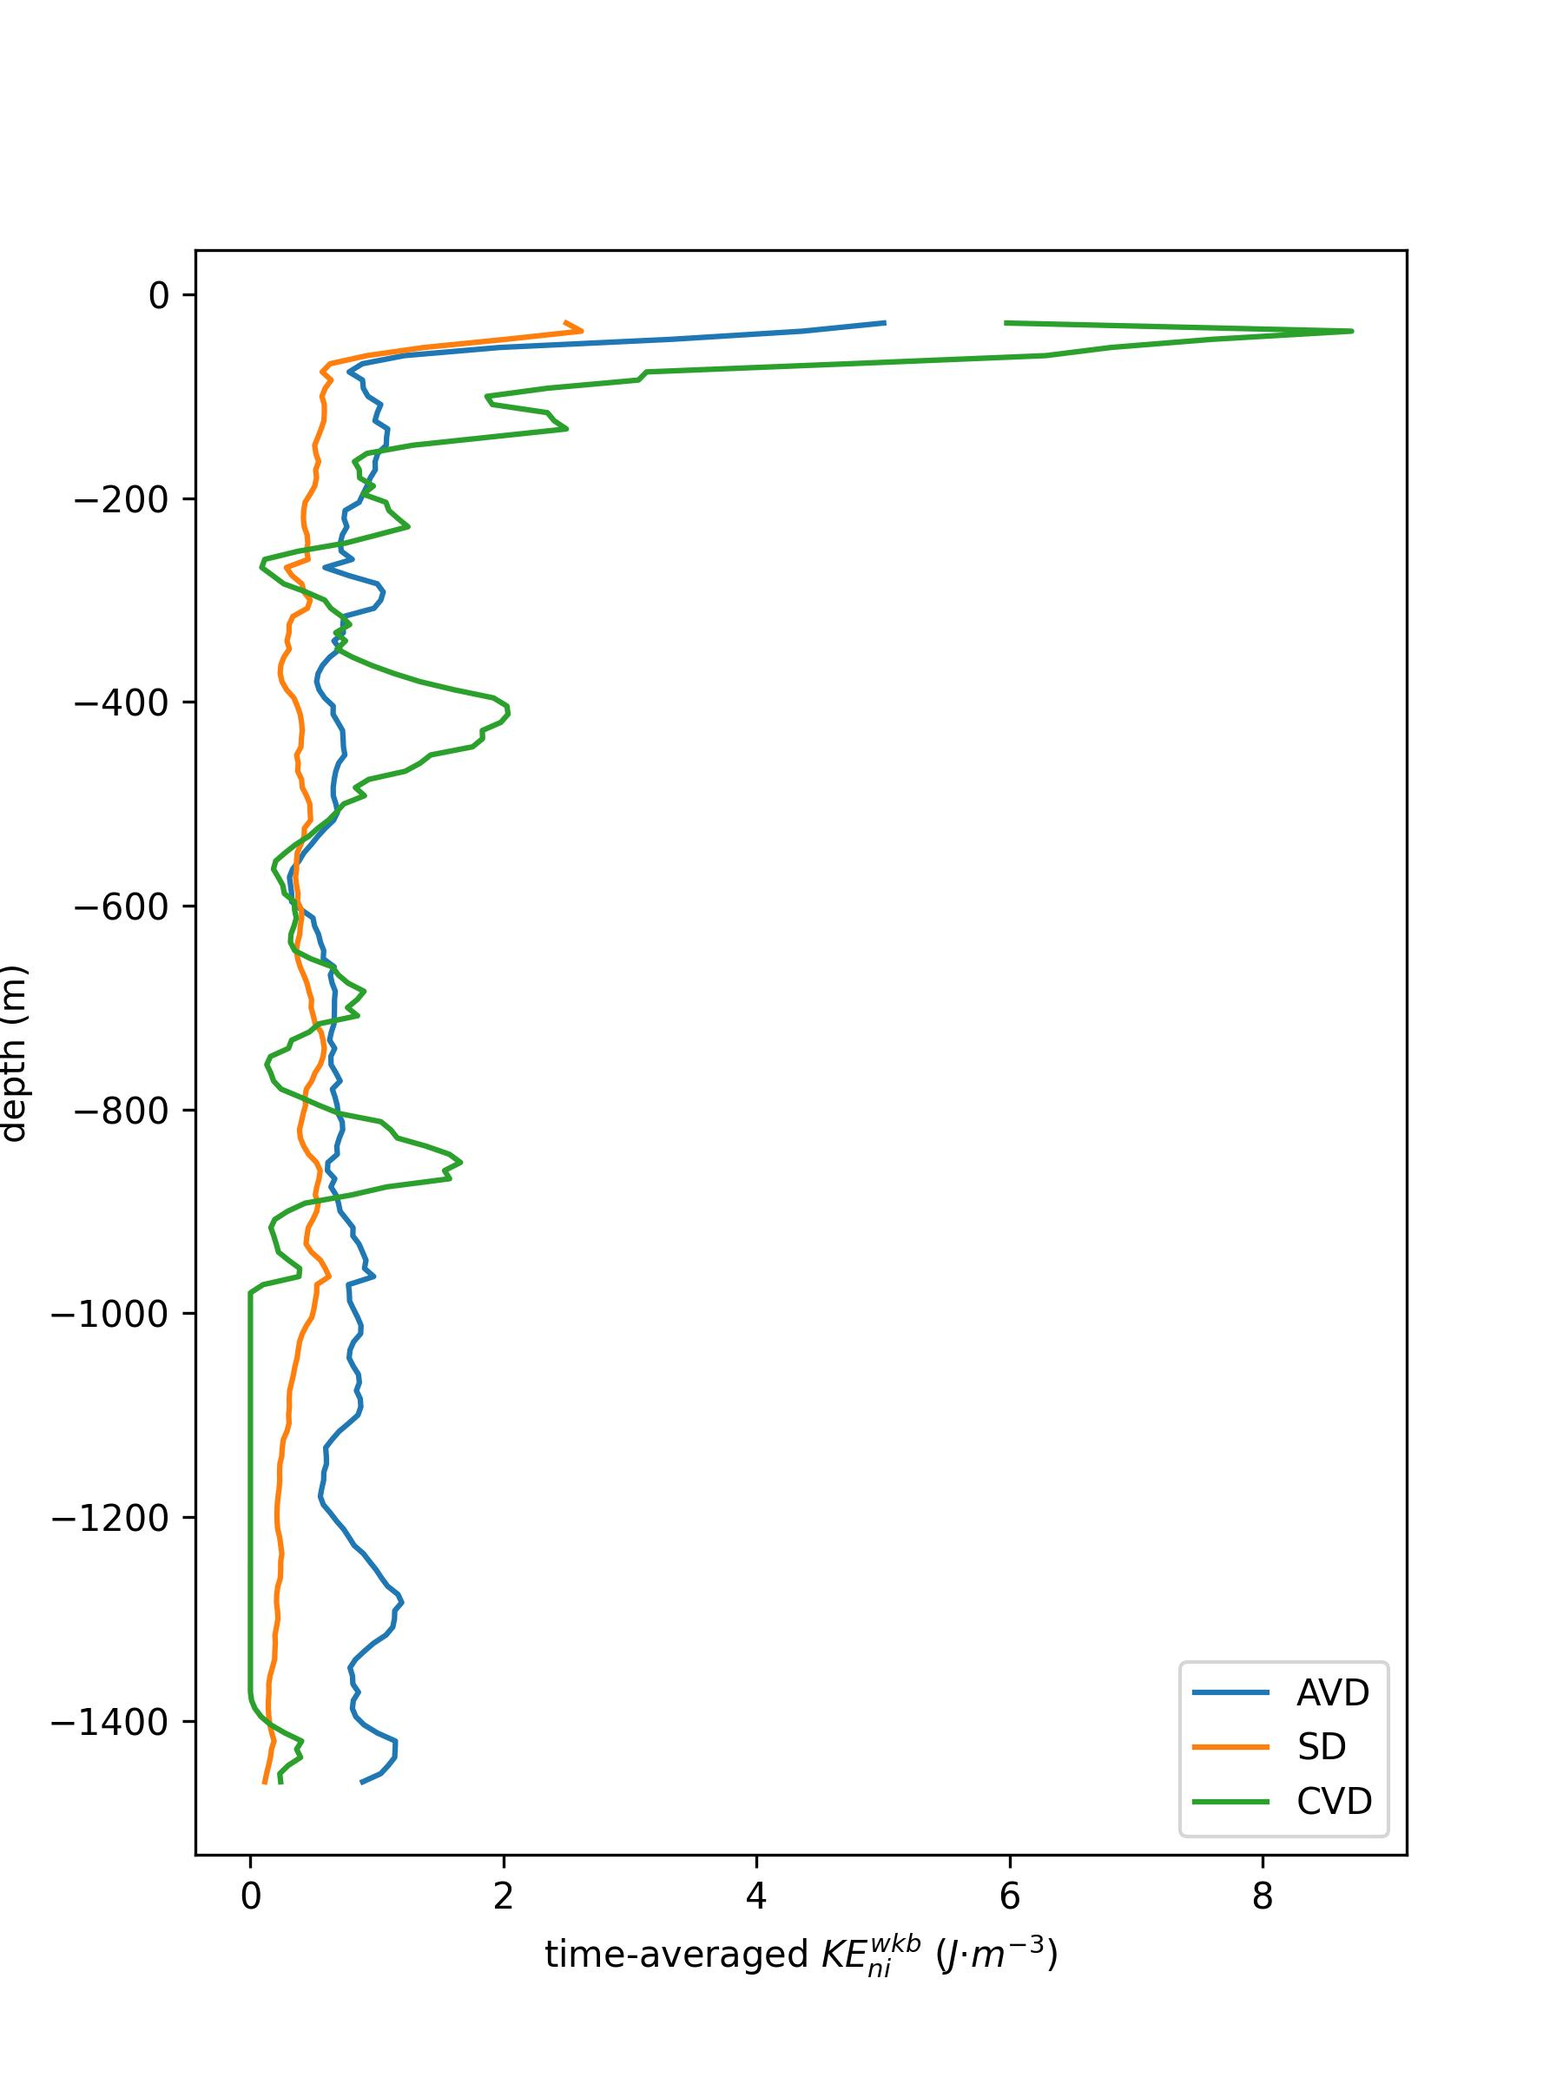
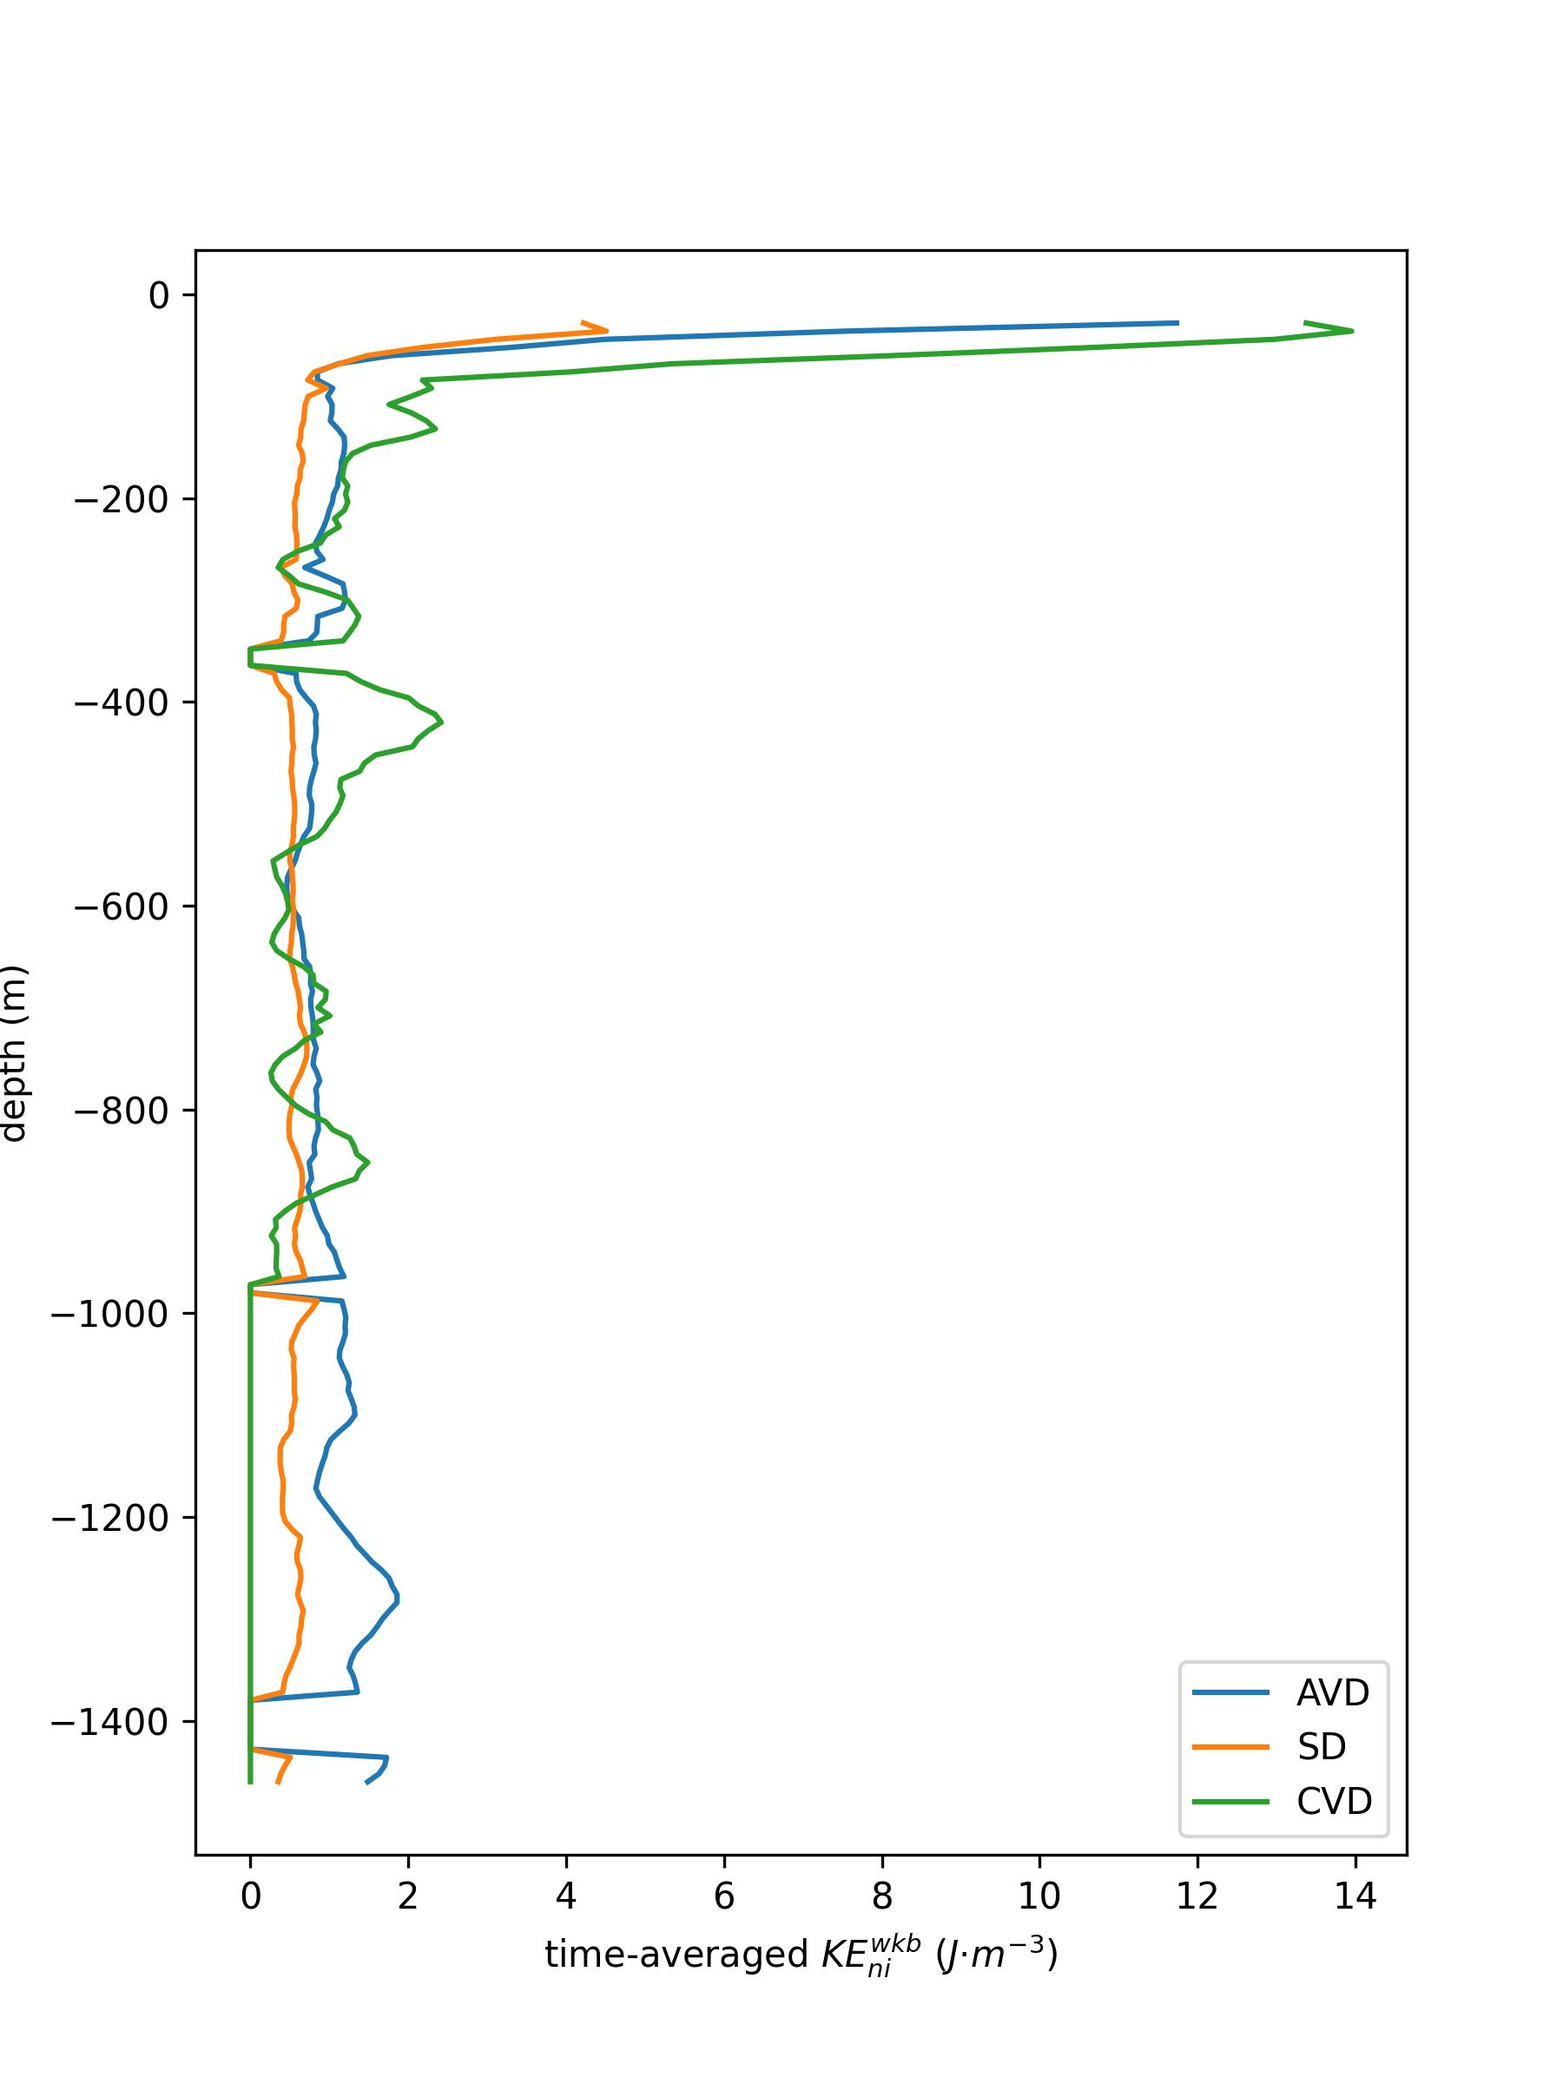
complete figures plotting

Changed region(s): [[0.1556, 0.1562, 0.7156, 0.6875], [0.1556, 0.6562, 0.28, 0.875], [0.7467, 0.1562, 0.84, 0.1875]]

diff --git a/Cal_5_modesProject.py b/Cal_5_modesProject.py
@@ -1,6 +1,7 @@
 import matplotlib.pyplot as plt
 import numpy as np
 from func_1_dynmodes import dynmodes
+from sklearn.linear_model import Ridge
 
 
 maxIdx = 181
@@ -35,22 +36,41 @@ fluxParams = np.load(r'MoorData/EnergyFlux.npz')
 up = fluxParams['up']
 vp = fluxParams['vp']
 pp = fluxParams['pp']
+
 depthFlux = depth[9:]
 nzFlux = len(depthFlux)
 pmodesFlux = pmodes[:, :, 9:maxIdx]
+# plt.pcolormesh(range(6650), depthFlux, pp.T, vmin=-100, vmax=100, cmap='seismic')
+# plt.colorbar()
+# plt.show()
 
-up_mod = np.zeros((nt, nmodes, nzFlux))
-vp_mod = np.zeros((nt, nmodes, nzFlux))
-pp_mod = np.zeros((nt, nmodes, nzFlux))
+up_mod = np.zeros((nt, nmodes, nzFlux)) * np.nan
+vp_mod = np.zeros((nt, nmodes, nzFlux)) * np.nan
+pp_mod = np.zeros((nt, nmodes, nzFlux)) * np.nan
 
 for t in range(nt):
     valid_indices = np.where(~np.isnan(up[t, :]))[0]
-    up_mod_coeff = np.linalg.lstsq(pmodes[t, :, valid_indices], up[t, valid_indices], rcond=None)[0]
-    up_mod[t, :, valid_indices] = up_mod_coeff * pmodes[t, :, valid_indices]
-    vp_mod_coeff = np.linalg.lstsq(pmodes[t, :, valid_indices], vp[t, valid_indices], rcond=None)[0]
-    vp_mod[t, :, valid_indices] = vp_mod_coeff * pmodes[t, :, valid_indices]
-    pp_mod_coeff = np.linalg.lstsq(pmodes[t, :, valid_indices], pp[t, valid_indices], rcond=None)[0]
-    pp_mod[t, :, valid_indices] = pp_mod_coeff * pmodes[t, :, valid_indices]
+    up_mod_coeff = np.linalg.lstsq(pmodesFlux[t, :, valid_indices], up[t, valid_indices], rcond=None)[0]
+    up_mod[t, :, valid_indices] = up_mod_coeff * pmodesFlux[t, :, valid_indices]
+    vp_mod_coeff = np.linalg.lstsq(pmodesFlux[t, :, valid_indices], vp[t, valid_indices], rcond=None)[0]
+    vp_mod[t, :, valid_indices] = vp_mod_coeff * pmodesFlux[t, :, valid_indices]
+    pp_mod_coeff = np.linalg.lstsq(pmodesFlux[t, :, valid_indices], pp[t, valid_indices], rcond=None)[0]
+    pp_mod[t, :, valid_indices] = pp_mod_coeff * pmodesFlux[t, :, valid_indices]
+    print('c')
+
+
+# for t in range(nt):
+#     valid_indices = np.where(~np.isnan(up[t, :]))[0]
+#     ridge = Ridge(alpha=0.1)
+#     ridge.fit(pmodesFlux[t, :, valid_indices], up[t, valid_indices])
+#     up_mod_coeff = ridge.coef_
+#     up_mod[t, :, valid_indices] = up_mod_coeff * pmodesFlux[t, :, valid_indices]
+#     ridge.fit(pmodesFlux[t, :, valid_indices], vp[t, valid_indices])
+#     vp_mod_coeff = ridge.coef_
+#     vp_mod[t, :, valid_indices] = vp_mod_coeff * pmodesFlux[t, :, valid_indices]
+#     ridge.fit(pmodesFlux[t, :, valid_indices], pp[t, valid_indices])
+#     pp_mod_coeff = ridge.coef_
+#     pp_mod[t, :, valid_indices] = pp_mod_coeff * pmodesFlux[t, :, valid_indices]
 
 np.savez(r'MoorData/EnergyFlux_10bcmodes.npz', up_mod=up_mod, vp_mod=vp_mod, pp_mod=pp_mod)
 print('c')

diff --git a/Plot_3_windWork.py b/Plot_3_windWork.py
@@ -1,0 +1,63 @@
+import numpy as np
+from datetime import datetime, timedelta
+import matplotlib.pyplot as plt
+import matplotlib.gridspec as gridspec
+from matplotlib.dates import DateFormatter
+
+
+data1 = np.load(r'ReanaData/ERA5_tao_ni.npz')
+tao_x_ni = data1['tao_x_ni']
+tao_y_ni = data1['tao_y_ni']
+tao = np.sqrt(tao_x_ni ** 2 + tao_y_ni ** 2)
+data2 = np.load(r'ReanaData/ERA5_windWork.npz')
+pi_obs = data2['windWork_ni_obs']
+pi_slab = data2['windWork_ni_slab']
+data3 = np.load(r'ReanaData/ERA5_windWork_cum.npz')
+pi_obs_cum = data3['windWork_ni_obs_cum']
+pi_slab_cum = data3['windWork_ni_slab_cum']
+data4 = np.load(r'MoorData/ADCP_uv_ni_wkb.npz')
+ke_ni_wkb = data4['KE_ni_wkb']
+data5 = np.load(r'MoorData/ADCP_uv.npz')
+time = data5['mtime_adcp']
+depth = data5['depth_adcp']
+date = [datetime(1, 1, 1) + timedelta(days=i - 367) for i in time]
+
+fig = plt.figure(figsize=(10, 10))
+gs = gridspec.GridSpec(4, 2, width_ratios=[40, 1], height_ratios=[1, 1, 1, 1], hspace=0.3, wspace=0.01)
+
+# 第一子图
+ax1 = fig.add_subplot(gs[0, 0])
+ax1.plot(date, tao, 'k-', label='ECMWF')
+ax1.legend(loc='upper left')
+ax1.set_ylabel(r'$\tau_{NI} (N/m^{2})$')
+ax1.set_xticks(date[::30*24])
+ax1.xaxis.set_major_formatter(DateFormatter('%b'))
+
+# 第二子图
+ax2 = fig.add_subplot(gs[1, 0], sharex=ax1)
+ax2.plot(date, pi_obs, 'r-', label='Mooring')
+ax2.plot(date, pi_slab, 'k-', label='Slab Model')
+ax2.legend(loc='upper left')
+ax2.set_ylabel(r'$\Pi_{NI}$ $(W/m^{2})$')
+
+# 第三子图
+ax3 = fig.add_subplot(gs[2, 0], sharex=ax1)
+ax3.plot(date, pi_obs_cum, 'r-', label='Mooring')
+ax3.plot(date, pi_slab_cum, 'k-', label='Slab Model')
+ax3.legend(loc='upper left')
+ax3.set_ylabel(r'$\int \Pi_{NI} dt$ $(W/m^{2})$')
+
+# 第四子图
+ax4 = fig.add_subplot(gs[3, 0], sharex=ax1)
+pcm = ax4.pcolormesh(date, depth, ke_ni_wkb.T, cmap='Oranges', vmin=0, vmax=10, shading='auto')
+ax4.set_ylabel('Depth (m)')
+ax4.set_xlabel('2015 - 2016')
+
+# Colorbar 放在右下角专门区域
+cax = fig.add_subplot(gs[3, 1])
+cbar = fig.colorbar(pcm, cax=cax)
+cbar.set_label(r'$KE_{NI}^{WKB}$ $(J/m^{3})$')
+
+# plt.savefig(r'figures/fig_3_WindWork.jpg', dpi=300, bbox_inches='tight')
+plt.show()
+

diff --git a/Plot_8_2_PDF_horizontalEnergyFlux_modes.py b/Plot_8_2_PDF_horizontalEnergyFlux_modes.py
@@ -7,7 +7,9 @@ from matplotlib.colors import LogNorm
 uvp_mod = np.load(r'MoorData/EnergyFlux_10bcmodes.npz')
 up_mod = uvp_mod['up_mod']
 vp_mod = uvp_mod['vp_mod']
-pp_mod = uvp_mod['pp_mod']
+# pp_mod = uvp_mod['pp_mod']
+pp = np.load(r'MoorData/EnergyFlux.npz')['pp']
+pp_mod = pp.reshape(-1, 1, 172)
 fx_mod = pp_mod * up_mod
 fy_mod = pp_mod * vp_mod
 nt, nmodes, nz = np.shape(up_mod)
@@ -18,28 +20,27 @@ dt = 3600
 plt.figure(figsize=(12, 12))
 for i in range(1, 5):
     plt.subplot(2, 2, i)
-    print(i)
-    fx = np.nansum(fx_mod[:, i, :], 1) * dz
-    fy = np.nansum(fy_mod[:, i, :], 1) * dz
+    fx = fx_mod[:, i, :].flatten()
+    fy = fy_mod[:, i, :].flatten()
     fx = fx[~np.isnan(fx)]
     fy = fy[~np.isnan(fy)]
     # transfer to angle and magnitude
     theta = np.arctan2(fy, fx)
     magnitude = np.sqrt(fx**2 + fy**2)
     # ---------- plot PDF ----------
-    hist, x_edges, y_edges = np.histogram2d(fx, fy, bins=(36, 36))
+    hist, x_edges, y_edges = np.histogram2d(fx, fy, bins=(25, 25))
     hist_density = hist / np.sum(hist)
     x_mesh, y_mesh = np.meshgrid(x_edges, y_edges)
     c = plt.pcolormesh(x_mesh, y_mesh, hist_density.T, cmap='Reds', norm=LogNorm())
     cb = plt.colorbar(c)
     cb.ax.set_title('PDF')
-    plt.plot([-1e3, 1e3], [0, 0], 'k')
-    plt.plot([0, 0], [-1e3, 1e3], 'k')
-    plt.xlabel('$F_{x}$ ($W·m^{-1}$)')
-    plt.ylabel('$F_{y}$ ($W·m^{-1}$)')
-    # plt.xlim([-1e3, 1e3])
-    # plt.ylim([-1e3, 1e3])
+    plt.plot([-1.5e3, 1.5e3], [0, 0], 'k')
+    plt.plot([0, 0], [-1.5e3, 1.5e3], 'k')
+    plt.xlabel('$F_{x}$ ($W/m$)')
+    plt.ylabel('$F_{y}$ ($W/m$)')
+    plt.xlim([-1.5e3, 1.5e3])
+    plt.ylim([-1.5e3, 1.5e3])
     plt.title('mode{}'.format(i))
-# plt.savefig(r'figures\PDF of Modes Horizontal Energy Flux.jpg', dpi=300)
+plt.savefig(r'figures\fig_8_2_EnergyFluxModesPDF.jpg', dpi=300, bbox_inches='tight')
 plt.show()
 print('c')

diff --git a/Plot_7_ModeContributions.py b/Plot_7_ModeContributions.py
@@ -1,0 +1,52 @@
+import numpy as np
+import matplotlib.pyplot as plt
+from scipy import stats
+
+
+def cal_confidence(data):
+    n = len(data)
+    std = np.nanstd(data, ddof=1)
+    se = std / np.sqrt(n)
+    confidence = 0.99
+    alpha = 1 - confidence
+    t_value = stats.t.ppf(1 - alpha / 2, df=n - 1)
+    margin = t_value * se
+    return margin
+
+
+data1 = np.load(r'MoorData/ADCP_uv_ni_10bcmodes.npz')
+ke_mod = data1['ke_mod']
+ke_mod_data = np.nanmean(np.nanmean(ke_mod, -1), 0)
+data2 = np.load(r'MoorData/EnergyFlux_10bcmodes.npz')
+up_mod = data2['up_mod']
+vp_mod = data2['vp_mod']
+pp = np.load(r'MoorData/EnergyFlux.npz')['pp']
+pp_mod = pp.reshape(6650, 1, -1)
+fx_mod = pp_mod * up_mod
+fy_mod = pp_mod * vp_mod
+f_mod = np.sqrt(fx_mod ** 2 + fy_mod ** 2)
+f_mod_data = np.nanmean(np.nansum(f_mod, -1), 0)
+
+ci_ke = np.empty(11)
+for i in range(11):
+    ci_ke[i] = cal_confidence(np.nanmean(ke_mod, -1))
+ci_f = np.empty(11)
+for i in range(11):
+    ci_f[i] = cal_confidence(np.nanmean(f_mod, -1))
+
+plt.figure(1, figsize=(10, 8))
+plt.subplot(2, 1, 1)
+plt.bar(range(11), ke_mod_data, color='#A6B1B7', yerr=ci_ke, capsize=6, error_kw=dict(ecolor='#444444', linewidth=1.5))
+plt.xticks(range(11))
+plt.ylim([0, 1200])
+plt.ylabel('$KE_{NI}^{WKB}$ $J/m^{3}$')
+
+plt.subplot(2, 1, 2)
+plt.bar(range(11), f_mod_data, color='#A6B1B7', yerr=ci_f, capsize=6, error_kw=dict(ecolor='#444444', linewidth=1.5))
+plt.xticks(range(11))
+plt.ylim([0, 1200])
+plt.xlabel('Modes')
+plt.ylabel('$F_{NI}$ $W/m$')
+
+# plt.savefig(r'figures/fig_7_ModeContribution.jpg', dpi=300, bbox_inches='tight')
+plt.show()

diff --git a/Plot_6_VerticalModeStructure.py b/Plot_6_VerticalModeStructure.py
@@ -1,0 +1,46 @@
+import numpy as np
+import matplotlib.pyplot as plt
+import matplotlib.gridspec as gridspec
+import matplotlib.ticker as ticker
+
+
+data1 = np.load(r'ReanaData/WOA23_pmodes_mean.npz')
+pmodes = data1['pmodes']
+Nsq = data1['Nsq']
+ze = data1['ze']
+data2 = np.load(r'MoorData/ADCP_uv.npz')
+depth = data2['depth_adcp']
+
+fig = plt.figure(1, figsize=(10, 12))
+gs = gridspec.GridSpec(2, 6, hspace=0, wspace=0)
+for i in range(11):
+    if i >= 6:
+        j = i + 1
+    else:
+        j = i
+    if i == 0:
+        ax1 = fig.add_subplot(gs[j])
+        ax1.plot(Nsq, ze, 'k-')
+        ax1.set_ylabel('Depth (m)')
+        ax1.set_title(r'$N^{2}$ $(rad/s)^{2}$')
+        ax1.set_yticks([0, -500, -1000, -1500, -2000])
+        ax1.ticklabel_format(style='sci', scilimits=(0, 10e-5), axis='x')
+    else:
+        ax = fig.add_subplot(gs[j])
+        if pmodes[i, 0] < 0:
+            pmodes[i, :] = -pmodes[i, :]
+        ax.plot(pmodes[i, :].T, depth, 'k-')
+        if i == 6:
+            ax.set_ylabel('Depth (m)')
+            ax.set_yticks([-500, -1000, -1500, -2000])
+        else:
+            ax.set_yticks([])
+        ax.set_xlim(-np.nanmax(np.abs(pmodes[i, :])) - 0.1, np.nanmax(np.abs(pmodes[i, :])) + 0.1)
+        ax.set_xticks([])
+        ax.plot([0, 0], [0, -2000], 'k--')
+        ax.text(np.nanmin(pmodes[i, :]), -1800, 'mode {}'.format(i), fontsize=16)
+        ax.set_ylim(-2000, 0)
+
+plt.savefig(r'figures/fig_6_VerticalModeStructure.jpg', dpi=300, bbox_inches='tight')
+
+plt.show()

diff --git a/plot_KEprofileSeparateByVorticity.py b/plot_KEprofileSeparateByVorticity.py
@@ -2,13 +2,12 @@ import numpy as np
 import matplotlib.pyplot as plt
 
 
-temp = np.load(r'ReanaData\WOA23_temp_grid.npy')
 vorticity_moor = np.load(r'ReanaData\AVISO_vorticity1.npy')
-adcp = np.load('ADCP_uv_ni_wkb.npz')
+adcp = np.load('MoorData/ADCP_uv_ni_wkb.npz')
 KE_ni = adcp['KE_ni_wkb']
-adcp0 = np.load('ADCP_uv.npz')
-moorDate = adcp0['mtime']
-depth = adcp0['depth']
+adcp0 = np.load('MoorData/ADCP_uv.npz')
+moorDate = adcp0['mtime_adcp']
+depth = adcp0['depth_adcp']
 lat_moor = 36.23
 fi = 2 * 7.292e-5 * np.sin(lat_moor/180*np.pi)
 vf = vorticity_moor / fi
@@ -32,6 +31,6 @@ plt.plot(negativeVor / timeSpan, depth, 'r-')
 plt.legend([r'$\zeta_{g} > 0$', r'$\zeta_{g} < 0$'])
 plt.ylabel('depth (m)')
 plt.xlabel('time-averaged $KE_{ni}^{wkb}$ ($J/m^{3}$)')
-plt.savefig(r'figures\time-averaged KE separate by vorticity2.jpg', dpi=300)
+plt.savefig(r'figures\fig_9_2_VerticalDistributionOnVorticity.jpg', dpi=300, bbox_inches='tight')
 plt.show()
 print('c')

diff --git a/Cal_windStress.py b/Cal_windStress.py
@@ -39,9 +39,9 @@ windWork_ni_slab = u_slab * tao_x_ni + v_slab * tao_y_ni
 windWork_ni_obs_cum = 3600 * np.nancumsum(windWork_ni_obs) / 1000
 windWork_ni_slab_cum = 3600 * np.nancumsum(windWork_ni_slab) / 1000
 
-np.savez(r'ReanaData/ERA5_tao_ni.npz', tao_x_ni=tao_x_ni, tao_y_ni=tao_y_ni)
-np.savez(r'ReanaData/ERA5_windWork.npz', windWork_ni_obs=windWork_ni_obs, windWork_ni_slab=windWork_ni_slab)
-np.savez(r'ReanaData/ERA5_windWork_cum.npz', windWork_ni_obs_cum=windWork_ni_obs_cum, windWork_ni_slab_cum=windWork_ni_slab_cum)
+# np.savez(r'ReanaData/ERA5_tao_ni.npz', tao_x_ni=tao_x_ni, tao_y_ni=tao_y_ni)
+# np.savez(r'ReanaData/ERA5_windWork.npz', windWork_ni_obs=windWork_ni_obs, windWork_ni_slab=windWork_ni_slab)
+# np.savez(r'ReanaData/ERA5_windWork_cum.npz', windWork_ni_obs_cum=windWork_ni_obs_cum, windWork_ni_slab_cum=windWork_ni_slab_cum)
 
 # for checking
 plt.figure(1)

diff --git a/Plot_8_1_PDF_HorizontalEnergyFlux.py b/Plot_8_1_PDF_HorizontalEnergyFlux.py
@@ -19,9 +19,9 @@ theta_mesh, magnitude_mesh = np.meshgrid(theta_edges, r_edges)
 plt.figure(figsize=(6, 6))
 ax = plt.subplot(111, polar=True)
 c = ax.pcolormesh(theta_mesh, magnitude_mesh, hist_density.T, cmap='Reds', norm=LogNorm(vmin=1e-6, vmax=1e-2))
-ax.set_yticks([50, 100, 150])
-plt.colorbar(c, label='PDF')
+ax.set_yticks([50, 100])
+plt.colorbar(c, label='PDF', orientation='horizontal')
 plt.title('PDF of Horizontal Energy Flux')
-# plt.savefig(r'figures\PDF of Horizontal Energy Flux.jpg', dpi=300)
+plt.savefig(r'figures\fig_8_1_EnergyFluxPDF.jpg', dpi=300, bbox_inches='tight')
 plt.show()
 print('c')

diff --git a/Plot_PDF.py b/Plot_PDF.py
@@ -57,8 +57,7 @@ plt.xlim(-0.1, 0.1)
 plt.xlabel(r'$\zeta_g/f$')
 plt.ylabel(r'$KE_{NI}^{WKB}$ $(J/m^{3})$')
 plt.grid(True)
-plt.tight_layout()
-# plt.savefig(r'figures\PDF_depth_integrated1.jpg', dpi=300)
+plt.savefig(r'figures\fig_9_1_PDF.jpg', dpi=300, bbox_inches='tight')
 plt.show()
 # # ----------plot the vorticity and KE_ni---------
 # fig = plt.figure(figsize=(10, 8))

diff --git a/Cal_5_dynmode.py b/Cal_5_dynmode.py
@@ -92,6 +92,7 @@ pmodes_mean = np.zeros((nmodes, nzMoor)) * np.nan
 for m in range(nmodes):
     itp_t = itp.interp1d(ze, pmodes[m, :], fill_value=np.nan, bounds_error=False, kind='cubic')
     pmodes_mean[m, :] = itp_t(depthMoor)
+np.savez(r'ReanaData/WOA23_pmodes_mean.npz', pmodes=pmodes_mean, Nsq=Nmean, ze=ze)
 
 plt.figure(1, figsize=(10, 12))
 for i in range(11):

diff --git a/plot_jPDF.py b/plot_jPDF.py
@@ -70,7 +70,7 @@ plt.ylim(0, 0.1)
 plt.xlabel(r'$\zeta/f$')
 plt.ylabel(r'$\sigma/f$')
 plt.title('jPDF')
-# plt.savefig(r'figures\jPDF_AVISO.jpg', dpi=300)
+plt.savefig(r'figures\fig_10_jPDF.jpg', dpi=300, bbox_inches='tight')
 plt.show()
 # ---------- plot depth distribution of different dominant regions ----------
 nz = len(moorDepth[:180])

diff --git a/plot_4_PSD.py b/plot_4_PSD.py
@@ -122,7 +122,7 @@ plt.text(f, 1., 'f', fontsize=16)
 plt.plot([1/12.42/3600., 1/12.42/3600.], [0, -2000], 'k--')
 plt.text(1/12.42/3600., 1., '$M_{2}$', fontsize=16)
 
-# plt.savefig('figures/PSD.jpg', dpi=300)
+plt.savefig('figures/fig_4_PSD.jpg', dpi=300, bbox_inches='tight')
 plt.show()
 
 
